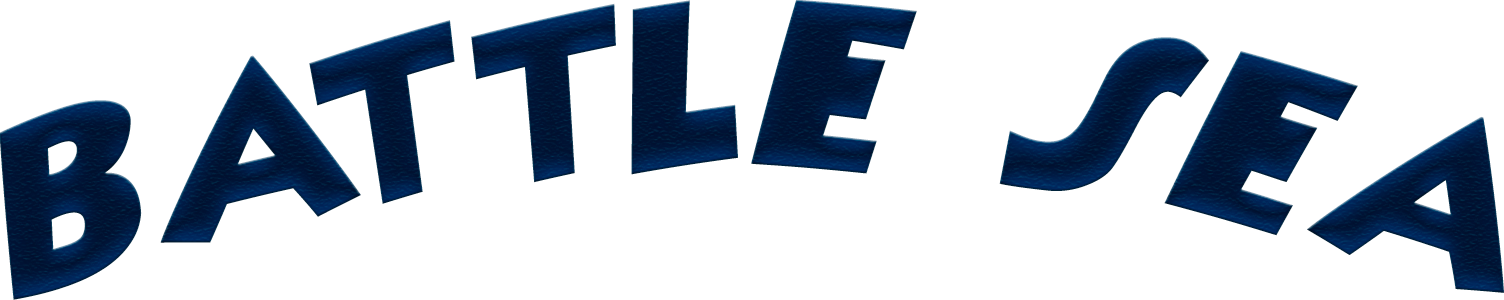
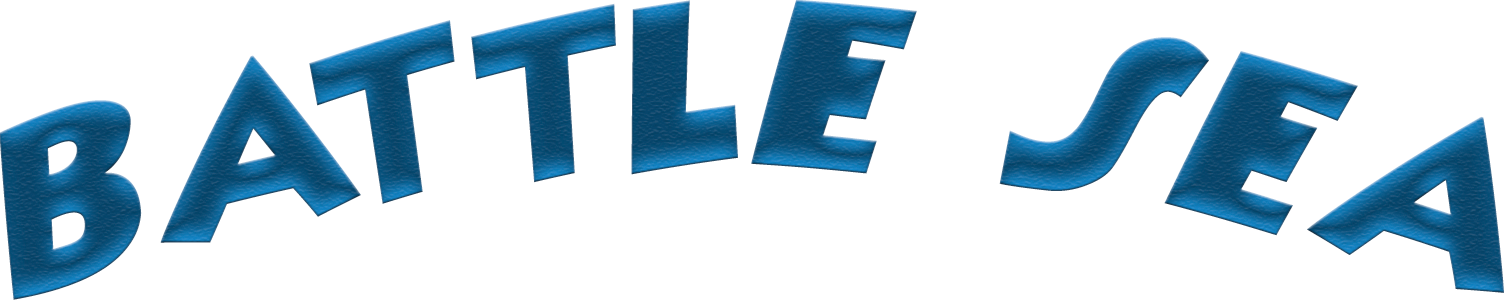
v5

Changed region(s): [[0.0, 0.0, 0.625, 1.0], [0.6562, 0.12, 1.0, 0.99]]

diff --git a/js_experiments/games/seabattle-v5/Preloader.js b/js_experiments/games/seabattle-v5/Preloader.js
@@ -1,18 +1,21 @@
 BattleSea.Preloader = function(game) {
     this.preloadBar = null;
     this.titleText = null;
+    this.titleSub = null;
     this.ready = false;
 };
 
 BattleSea.Preloader.prototype = {
 	
 	preload: function () {
-		this.preloadBar = this.add.sprite(this.world.centerX, this.world.centerY+180, 'preloaderBar');
+		this.preloadBar = this.add.sprite(this.world.centerX, this.world.centerY+410, 'preloaderBar');
 		this.preloadBar.anchor.setTo(0.5, 0.5);
 		this.load.setPreloadSprite(this.preloadBar);
-		this.titleText = this.add.image(this.world.centerX, this.world.centerY-220, 'titleimage');
+		this.titleText = this.add.image(this.world.centerX, this.world.centerY-300, 'titleimage');
 		this.titleText.anchor.setTo(0.5, 0.5);
-        this.load.image('titlescreen', 'images/backgroundSea2.png');
+        this.load.image('titlescreen', 'images/backgroundSea.png');
+        this.titleSub = this.add.image(this.world.centerX, this.world.centerY, 'titleSubmarine');
+        this.titleSub.anchor.setTo(0.5, 0.5);
         // this.load.image('hill', 'images/hill.png');
         // this.load.image('sky', 'images/sky.png');
         // this.load.atlasXML('bunny', 'images/spritesheets/bunny.png', 'images/spritesheets/bunny.xml');
@@ -23,13 +26,14 @@ BattleSea.Preloader.prototype = {
         // this.load.audio('hurt_audio', 'audio/hurt.mp3');
         // this.load.audio('select_audio', 'audio/select.mp3');
         this.load.audio('game_audio', 'audio/bgm.mp3');
-
+        
 
 	},
 
 	create: function () {
-        this.stage.backgroundColor = '#0088ff';
+        // this.stage.setBackgroundColor = 'rgba(68, 136, 170, 0.5)';
 		this.preloadBar.cropEnabled = false;
+
 	},
 
 	update: function () {

diff --git a/js_experiments/games/seabattle-v5/StartMenu.js b/js_experiments/games/seabattle-v5/StartMenu.js
@@ -1,30 +1,29 @@
 BattleSea.StartMenu = function(game) {
     this.startBG;
     this.startPrompt;
-    // this.ding;
+    this.ding;
     this.style;
 }
 
 BattleSea.StartMenu.prototype = {
 	
 	create: function () {
-        // this.ding = this.add.audio('select_audio');
+        this.ding = this.add.audio('select_audio');
         
 		startBG = this.add.image(0, 0, 'titlescreen');
 		startBG.inputEnabled = true;
 		startBG.events.onInputDown.addOnce(this.startGame, this);
-		// this.style = { font: "36px Minnie", fill: "#ffffff", boundsAlignH: "center", boundsAlignV: "middle" };
-		this.style = { font: "36px Minnie", fill: "#ffffff" };
-		// startPrompt = this.add.text(0, 0,'Нажмите чтобы начать!', this.style);
-		startPrompt = this.add.text(this.world.centerX-230, this.world.centerY+180,'Нажмите чтобы начать!', this.style);
+
+		this.style = { font: "84px Minnie", fill: "#ffffff" };
+
+		startPrompt = this.add.text(this.world.centerX-550, this.world.centerY+250,'Нажмите чтобы начать!', this.style);
 		startPrompt.setShadow(3, 3, 'rgba(0,0,0,0.5)', 2);
-		// startPrompt.aligh = "center";
-	    // startPrompt.setTextBounds(0, 0, 540, 960);
+
 
 	},
 
 	startGame: function (pointer) {
-        // this.ding.play();
+        this.ding.play();
 		this.state.start('Game');
 	}
 

diff --git a/js_experiments/games/seabattle-v5/index.html b/js_experiments/games/seabattle-v5/index.html
@@ -37,26 +37,15 @@
     <script type="text/javascript">
         window.onload = function() {
 
-            var conf = {
-                width: 1920,
-                height: 1080,
-                renderer: Phaser.CANVAS,
-                parent: 'gameContainer',
-                transparent: false,
-                antialias: false,
-                // state: this,
-                scaleMode: Phaser.ScaleManager.SHOW_ALL,
-                backgroundColor: '#0088ff',
-            };
+            var game = new Phaser.Game(1920, 1080, Phaser.AUTO, 'gameContainer');
 
-            var game = new Phaser.Game(conf);
-            // var game = new Phaser.Game(1920, 1080, Phaser.CANVAS, 'gameContainer');
             game.state.add('Boot', BattleSea.Boot);
             game.state.add('Preloader', BattleSea.Preloader);
             game.state.add('StartMenu', BattleSea.StartMenu);
             game.state.add('Game', BattleSea.Game);
             game.state.start('Boot');
         }
+        
     </script>
 </body>
 </html>

diff --git a/js_experiments/games/seabattle-v5/Boot.js b/js_experiments/games/seabattle-v5/Boot.js
@@ -4,13 +4,14 @@ BattleSea.Boot = function(game) {};
 
 BattleSea.Boot.prototype = {
     preload: function() {
-        this.load.image('preloaderBar', 'images/loader_bar.png');
-        this.load.image('titleimage', 'images/TitleImage2.png');
+        this.load.image('preloaderBar', 'images/loader_bar2.png');
+        this.load.image('titleimage', 'images/titleImage2.png');
+        this.load.image('titleSubmarine', 'images/titleSubmarine.png');
+
     },
     
     create: function() {
 
-		this.stage.backgroundColor = '#0088ff';    	
         this.input.maxPointers = 1;
 		this.stage.disableVisibilityChange = false;
 		this.scale.scaleMode = Phaser.ScaleManager.SHOW_ALL;
@@ -20,11 +21,11 @@ BattleSea.Boot.prototype = {
 		this.scale.pageAlignVertically = true;
 		this.stage.forcePortrait = false;
 		this.stage.forceLandscape = true;
+
 		this.scale.setScreenSize(true);
 
 		this.input.addPointer();
 
-        
         this.state.start('Preloader');
     }
 }
